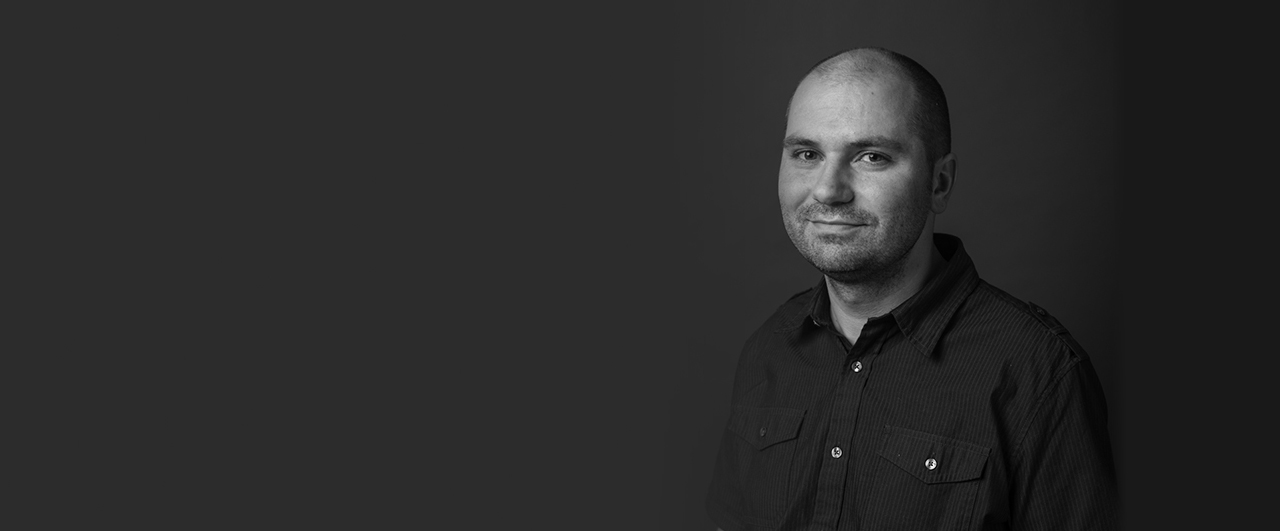
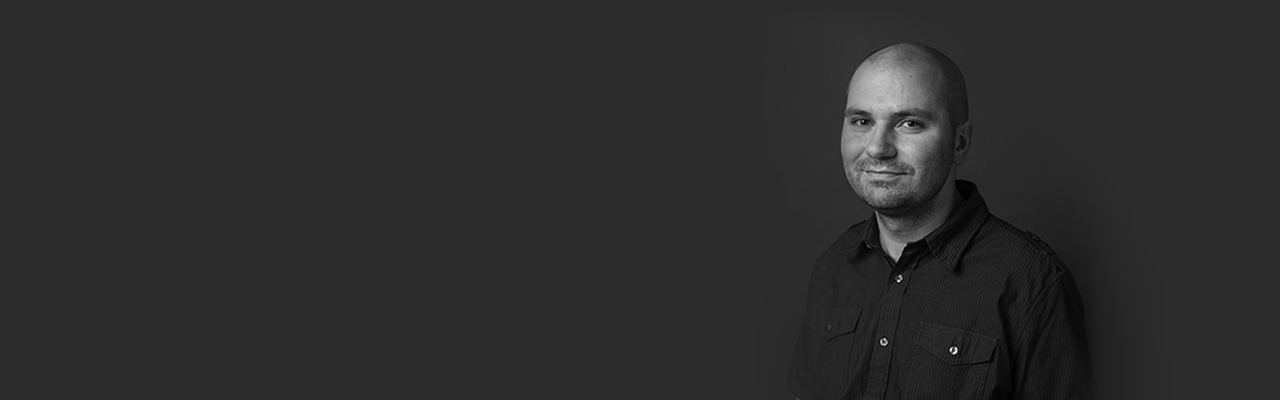
Changes to profile page
Change the intro section of the profile page

diff --git a/css/screen.css b/css/screen.css
@@ -291,7 +291,31 @@ input[type="file"]:active::before {
 .form-item-warning .form-warning{display:block;}
 
 /* User Interface - Buttons */
-.ui-button{background:#131313;background:-moz-linear-gradient(top,#4c4c4c 0%,#131313 100%);background:-webkit-gradient(linear,left top,left bottom,color-stop(0%,#4c4c4c),color-stop(100%,#131313));background:-webkit-linear-gradient(top,#4c4c4c 0%,#131313 100%);background:-o-linear-gradient(top,#4c4c4c 0%,#131313 100%);background:-ms-linear-gradient(top,#4c4c4c 0%,#131313 100%);background:linear-gradient(to bottom,#4c4c4c 0%,#131313 100%);filter:progid:DXImageTransform.Microsoft.gradient( startColorstr='#4c4c4c',endColorstr='#131313',GradientType=0 );-webkit-border-radius:3px;-moz-border-radius:3px;border-radius:3px;color:#fff;display:inline-block;font-family:'Nimbus-Sans',Helvetica,Arial,Sans-Serif;font-size:16px;font-weight:500;line-height:36px;padding:0 30px;vertical-align:bottom;-webkit-font-smoothing:subpixel-antialiased;font-smoothing:subpixel-antialiased;}
+.ui-button{
+	background:#131313;
+	background:-moz-linear-gradient(top,#4c4c4c 0%,#131313 100%);
+	background:-webkit-gradient(linear,left top,left bottom,color-stop(0%,#4c4c4c),color-stop(100%,#131313));
+	background:-webkit-linear-gradient(top,#4c4c4c 0%,#131313 100%);
+	background:-o-linear-gradient(top,#4c4c4c 0%,#131313 100%);
+	background:-ms-linear-gradient(top,#4c4c4c 0%,#131313 100%);
+	background:linear-gradient(to bottom,#4c4c4c 0%,#131313 100%);
+	filter:progid:DXImageTransform.Microsoft.gradient( startColorstr='#4c4c4c',endColorstr='#131313',GradientType=0 );
+	-webkit-border-radius:3px;
+	   -moz-border-radius:3px;
+			border-radius:3px;
+	color:#fff;
+	display:inline-block;
+	font-family:'Nimbus-Sans',Helvetica,Arial,Sans-Serif;
+	font-size:16px;
+	font-weight:500;
+	line-height:36px;
+	margin:0;
+	padding:0 20px;
+	vertical-align:bottom;
+	-webkit-font-smoothing:subpixel-antialiased;
+	font-smoothing:subpixel-antialiased;
+	}
+	
 	.ui-button:hover{background:#131313;color:#fff;}
 	.ui-button:active{position:relative;top:1px;}
 
@@ -312,7 +336,21 @@ input[type="file"]:active::before {
 		.ui-table th span,
 		.ui-table td span { color:#999; display:block; font-size:14px; font-weight:500; }
 
+/* Pills	*/
 
+.ui-pill {
+	background:#f4f4f4;
+	-webkit-border-radius:20px;
+	   -moz-border-radius:20px;
+			border-radius:20px;
+	color:#222;
+	display:inline-block;
+	font-size:11px;
+	margin:0 1px 5px 0;
+	padding:1px 10px;
+}
+
+/* Selector */
 .ui-select {
 	background:#f7f7f7;
 	border:solid 1px #ddd;
@@ -420,12 +458,13 @@ footer {
 
 /* Pages Based Styles */
 
-.about {
+.profile {
 	background:url(../img/layout/initstudio_about_michael_stevens.jpg) no-repeat 0 30px;
-	color:#fff;
 	min-height:800px;
-	padding:60px 0;
+	padding:90px 0;
 }
+	.profile h1 { margin:0; }
+	.profile-intro { color:#fff; height:380px; }
 
 .articles {
 	padding:60px 0; 

diff --git a/application/views/pages/about.php b/application/views/pages/about.php
@@ -1,35 +1,39 @@
-<section class="about">
+<section class="profile">
 
 	<div class="container">
 		<div class="box-grid">
-			<div class="grid_7">
-				<h3 class="lead">Hello, I'm Michael Stevens</h3>
-				<h6 class="lead">UX Designer <span>&amp;</span> UI Developer</h6>
+			<div class="profile-intro">
+				<div class="grid_7">
+					<h1 class="lead">Hello, I'm Michael Stevens</h1>
+					<h5 class="lead">Sr. UX Designer at <a href="http://www.backcountry.com">Backcountry.com</a></h5>
+					<h5 class="lead">North Salt Lake, Utah</h5>
+					<p>
+						Connect
+						<a href="#">Message</a>
+						Recommend
+					</p>
+					<p><strong>Skills &amp; Expertise</strong></p>
+					<span class="ui-pill">User Experience</span>
+					<span class="ui-pill">User-centered Design</span>
+					<span class="ui-pill">Interaction Design</span>
+					<span class="ui-pill">Typography</span>
+					<span class="ui-pill">Usability Testing</span>
+					<span class="ui-pill">HTML</span>
+					<span class="ui-pill">Rapid Prototyping</span>
+					<span class="ui-pill">Web Design</span>
+					<span class="ui-pill">User Interface Design</span>
+				</div>
 			</div>
 			<div class="clear"></div>
-			<div class="grid_6">
+			<div class="grid_8">
+				<h5>About me</h5>
 				<p>
 					Lorem ipsum dolor sit amet, consectetur adipiscing elit. Pellentesque eleifend erat sed odio condimentum, aliquam lacinia tortor tincidunt. Sed cursus enim felis, quis euismod eros hendrerit ac. Nulla nec euismod orci. Sed facilisis ultrices ullamcorper. In ornare justo eget pretium mattis. Curabitur tristique in quam at mattis. Donec mattis leo eu orci porttitor, eu volutpat purus dapibus. Phasellus id neque in nisl viverra faucibus. Vestibulum laoreet aliquet mauris elementum dapibus. Ut ante ante, scelerisque eu enim eget, porta faucibus massa. Maecenas nibh lorem, volutpat ac velit non, pretium tincidunt nisi. Aenean eu euismod leo, consequat fringilla purus. Nunc eu sem ut tellus rhoncus auctor at eu sem. Nunc sollicitudin blandit laoreet. Pellentesque et nunc odio.
 				</p>
-			</div>
-			<div class="clear"></div>
-			<div class="grid_4">
-				<p class="paragraph-2">
-					<strong>Design</strong>
-					is the marriage of form &amp; content. "When form predominates, meaning is blunted. When content predominates, interest lags." &ndash; Paul Rand. Design is the fusion of form &amp; Content. 
-				</p>
+				<h5>Work History</h5>
 			</div>
 			<div class="grid_4">
-				<p class="paragraph-2">
-					<strong>Born</strong> in Thornton, Colorado in 1982. I moved to Utah when I was about 10. Since then I have lived just north of Salt Lake City in Davis county. I am happily married with one eight year old son.
-				</p>
-			</div>
-			<div class="clear"></div>
-			<div class="grid_4">
-				<p class="paragraph-2">
-					<strong>Career</strong>
-					I began designing websites as early as high school. It got my first job with a company called <a href="http://www.backcountry.com" target="_blank">Backcountry.com</a> where I started development than later moved into the world of design. 
-				</p>
+				<h5>Recommendations</h5>
 			</div>
 			<div class="clear"></div>
 		</div>
